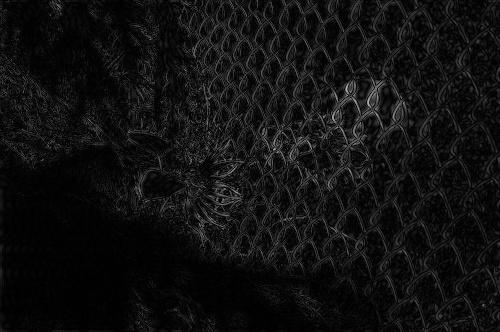
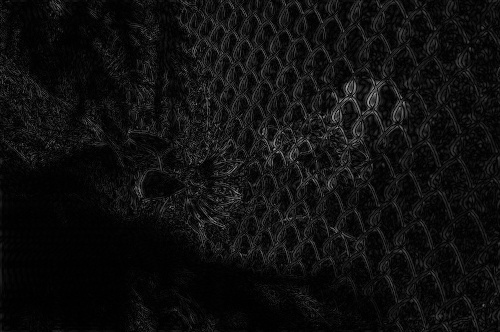
Final mask modification

diff --git a/inpainter.py b/inpainter.py
@@ -94,6 +94,27 @@ class Inpainter():
         self.working_image = np.copy(self.image)
         self.working_mask = np.copy(self.mask)
 
+        self._find_front()
+        height, width = self.working_mask.shape
+
+        # Remove the target region from the image
+        inverse_mask = 1 - self.working_mask
+        rgb_inverse_mask = self._to_rgb(inverse_mask)
+        image = self.working_image * rgb_inverse_mask
+
+        # Fill the target borders with red
+        image[:, :, 0] += self.front * 255
+
+        # Fill the inside of the target region with white
+        white_region = (self.working_mask - self.front) * 255
+        rgb_white_region = self._to_rgb(white_region)
+        image += rgb_white_region
+
+        plt.title("Final mask")
+        plt.imshow(rgb_white_region)
+        plt.show()
+        plt.imsave("finalMask.jpg", rgb_white_region)
+
     def _find_front(self):
         # Find the front using laplacian on the mask
 

diff --git a/phase2.py b/phase2.py
@@ -5,6 +5,7 @@ import matplotlib.pyplot as plt
 from PIL import Image
 from skimage.transform import resize
 import os
+from skimage.filters import laplace
 
 def processmask(original):
 
@@ -31,9 +32,9 @@ def processmask(original):
   # plt.imshow(wp.data,plt.cm.gray) # plot original image
   # plt.show()
 
-  limith = -10
-  limitv = -10
-  limitd = -10
+  limith = 10
+  limitv = 10
+  limitd = -20
   limitf = 15
 
   zh=wp['h'].data
@@ -70,7 +71,7 @@ def processmask(original):
   thickness = 2
   res = np.array(cv2.morphologyEx(zf, cv2.MORPH_CLOSE, cv2.getStructuringElement(cv2.MORPH_RECT, (thickness, thickness))))
   # print(res.size)
-  plt.title("Final fence mask")
+  plt.title("Closed fence mask")
   plt.imshow(res)
   plt.show()
 

diff --git a/main.py b/main.py
@@ -35,7 +35,7 @@ class Tapp(Frame):
     self.id=StringVar()
     self.id.set(None)
 
-    Button(self,text="Upload picture", command= self.add_data).pack(padx=30,pady=30,side=TOP)
+    Button(self,text="Upload image", command= self.add_data).pack(padx=30,pady=30,side=TOP)
 
   def add_data(self):
     picture=easygui.fileopenbox(msg="Select picture")

diff --git a/phase1.py b/phase1.py
@@ -22,7 +22,7 @@ def processbpf(img):
   rows, cols = img.shape
   crow,ccol = int(rows/2) , int(cols/2)
 
-  x = 30
+  x = 40
   # High Pass Filter (HPF)
   fshift[crow-x:crow+x, ccol-x:ccol+x] = 0
   f_ishift = np.fft.ifftshift(fshift)
